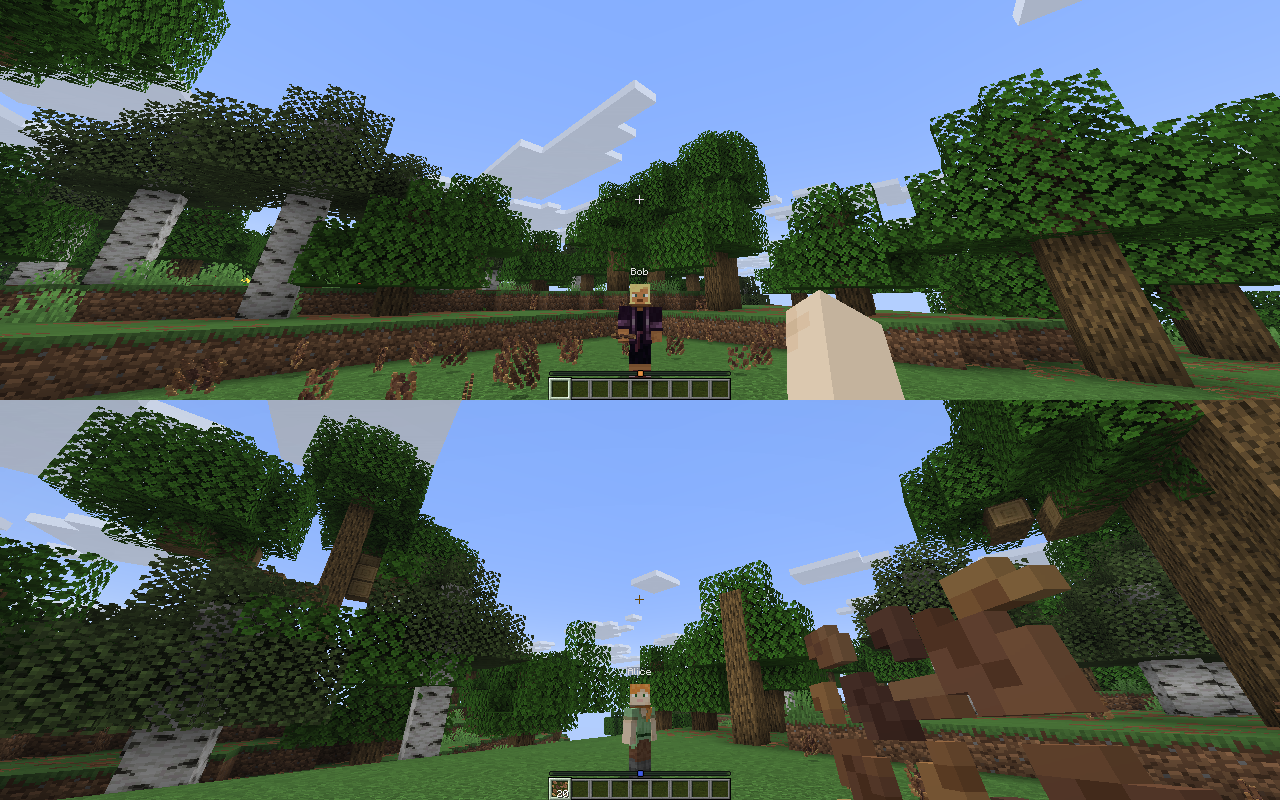
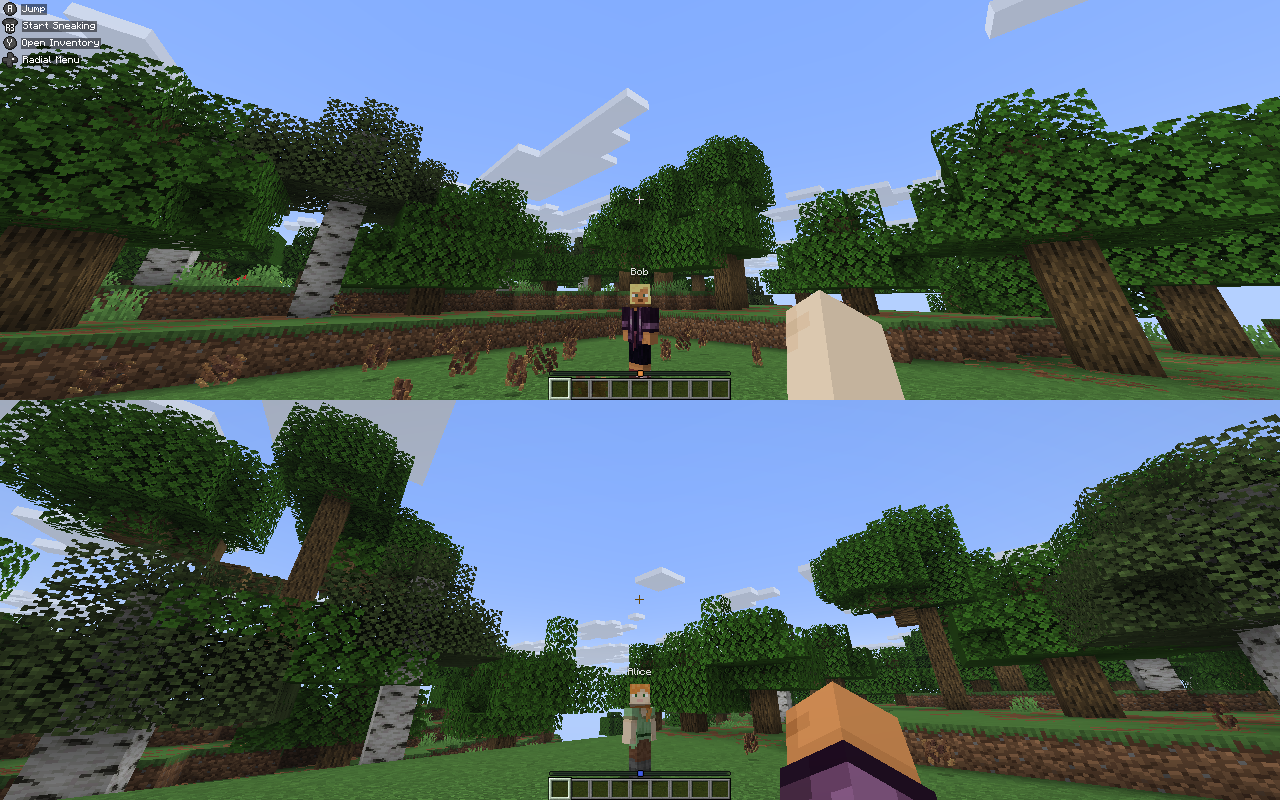
Split-screen layout pictures from a real Deck (2-4 players, both layouts)
scripts/deck-split.py runs the installed AppImage over SSH with DevSplit (dev only: players join without
controllers, each view captures itself at its real tile size) and composes the views in the tiler's layout. The
Deck's own profiles, layout setting and worlds are restored afterwards. README gets the full layout gallery.

diff --git a/scripts/deck-split.py b/scripts/deck-split.py
@@ -1,0 +1,111 @@
+#!/usr/bin/env python3
+"""README split-screen pictures from a real Steam Deck: runs the installed AppImage over SSH with the dev-only
+DevSplit flags (players join without controllers, each view saves its own picture at its real tile size), copies
+the views back and composes them in the tiler's layout into docs/screenshots/split-<layout>.png.
+Development only; the Deck's own profiles, settings and worlds are put back afterwards.
+
+    uv run --with pillow scripts/deck-split.py [layout ...]    layouts as in dev-split.py (default: all)
+    MCSS_DECK=deck@steamdeck.local  MCSS_DECK_APPIMAGE=~/Applications/MinecraftSplitscreen-x86_64.AppImage
+"""
+import json
+import os
+import subprocess
+import sys
+import tempfile
+import time
+from pathlib import Path
+
+from PIL import Image
+
+ROOT = Path(__file__).resolve().parent.parent
+DECK = os.environ.get("MCSS_DECK", "deck@steamdeck.local")
+APPIMAGE = os.environ.get("MCSS_DECK_APPIMAGE", "$HOME/Applications/MinecraftSplitscreen-x86_64.AppImage")
+PRISM = "$HOME/.var/app/org.prismlauncher.PrismLauncher/data/PrismLauncher"
+PROFILES = ROOT / "test" / "smoke" / "profiles"
+OUT = ROOT / "docs" / "screenshots"
+W, H = 1280, 800
+HW, HH = W // 2, H // 2
+QUAD = [(0, 0, HW, HH), (HW, 0, HW, HH), (0, HH, HW, HH), (HW, HH, HW, HH)]
+LAYOUTS = {  # the tiler's slots (appimage/kwin/mcss-tile) per layout
+    "2p-horizontal": [(0, 0, W, HH), (0, HH, W, HH)],
+    "2p-vertical": [(0, 0, HW, H), (HW, 0, HW, H)],
+    "3p-horizontal": [(0, 0, W, HH), QUAD[2], QUAD[3]],
+    "3p-vertical": [(0, 0, HW, H), QUAD[1], QUAD[3]],
+    "4p": QUAD,
+}
+
+
+def ssh(script, timeout=120):
+    r = subprocess.run(["ssh", "-o", "BatchMode=yes", DECK, "bash -s"], input=script, text=True, capture_output=True,
+                       timeout=timeout)
+    if r.returncode != 0:
+        raise RuntimeError(f"ssh failed ({r.returncode}): {r.stderr.strip()[-500:]}")
+    return r.stdout
+
+
+def setup():
+    """Adds the sample profiles the Deck doesn't have yet (never touches existing ones); returns the added names."""
+    writes = "\n".join(
+        f"""[ -e "$D/{p.stem}.json" ] || {{ cat > "$D/{p.stem}.json" <<'J'\n{p.read_text().strip()}\nJ\necho {p.stem}; }}"""
+        for p in sorted(PROFILES.glob("*.json")))
+    out = ssh(f"""set -e
+P="{PRISM}"; D="$P/mcss-profiles"; mkdir -p "$D" "$P/mcss-dev-split"
+{writes}
+c="$P/instances/P1/minecraft/config/splitscreen.properties"
+if [ -e "$c" ]; then cp "$c" "$c.mcss-dev-bak"; fi
+""")
+    return out.split()
+
+
+def teardown(added):
+    rm_profiles = " ".join(f'"$P/mcss-profiles/{n}.json"' for n in added)
+    ssh(f"""P="{PRISM}"
+{('rm -f ' + rm_profiles) if added else ':'}
+c="$P/instances/P1/minecraft/config/splitscreen.properties"
+if [ -e "$c.mcss-dev-bak" ]; then mv "$c.mcss-dev-bak" "$c"; else rm -f "$c"; fi
+find "$P/instances/P1/minecraft/saves" -maxdepth 1 -type d -name 'DevSplit-*' -exec rm -rf {{}} +
+rm -rf "$P/mcss-dev-split"
+""")
+
+
+def run(name, slots):
+    vertical = "vertical" in name
+    shots = f"{PRISM}/mcss-dev-split/{name}"
+    ssh(f"""set -e
+P="{PRISM}"; rm -rf "{shots}"; mkdir -p "{shots}" "$P/instances/P1/minecraft/config"
+printf 'layout={'vertical' if vertical else 'horizontal'}\\n' > "$P/instances/P1/minecraft/config/splitscreen.properties"
+systemctl --user reset-failed mcss-split 2>/dev/null || true
+systemd-run --user --unit=mcss-split --collect -p RuntimeMaxSec=600 --setenv=WAYLAND_DISPLAY=wayland-0 \\
+  --setenv=DISPLAY=:0 --setenv=MCSS_DEV_SPLIT="{shots}" --setenv=MCSS_DEV_PLAYERS={len(slots)} {APPIMAGE}
+""")
+    print(f"{name}: started on the Deck", flush=True)
+    deadline = time.time() + 660
+    while time.time() < deadline:
+        time.sleep(10)
+        if ssh("systemctl --user is-active -q mcss-split && echo running || echo done").strip() == "done":
+            break
+    with tempfile.TemporaryDirectory() as tmp:
+        subprocess.run(["scp", "-q", "-o", "BatchMode=yes", f"{DECK}:{shots.replace('$HOME', '~')}/*.png", tmp],
+                       timeout=120)
+        views = [Path(tmp) / f"P{k}.png" for k in range(1, len(slots) + 1)]
+        missing = [v.name for v in views if not v.exists()]
+        if missing:
+            print(f"{name}: missing {missing}; see the Deck's ~/.local/state/mc-splitscreen and instance logs", flush=True)
+            return False
+        canvas = Image.new("RGB", (W, H))
+        for view, (x, y, w, h) in zip(views, slots):
+            canvas.paste(Image.open(view).convert("RGB").resize((w, h)), (x, y))
+        OUT.mkdir(parents=True, exist_ok=True)
+        canvas.save(OUT / f"split-{name}.png", optimize=True)
+    print(f"{name}: wrote {OUT / f'split-{name}.png'}", flush=True)
+    return True
+
+
+if __name__ == "__main__":
+    wanted = sys.argv[1:] or list(LAYOUTS)
+    added = setup()
+    try:
+        ok = all([run(n, LAYOUTS[n]) for n in wanted])
+    finally:
+        teardown(added)
+    sys.exit(0 if ok else 1)

diff --git a/glue-mod/src/client/java/dev/mcss/glue/DevSplit.java b/glue-mod/src/client/java/dev/mcss/glue/DevSplit.java
@@ -21,7 +21,8 @@ import net.minecraft.world.level.levelgen.presets.WorldPresets;
  * README split-screen shots, for development only (scripts/dev-split.py): with MCSS_DEV_SPLIT=<folder> and
  * MCSS_DEV_PLAYERS=<n>, client P<k> plays as a fixed profile; Player 1 creates a world, waits for everyone, gathers
  * them on a small cleared patch facing each other at noon, and then every client saves its own view as P<k>.png and
- * quits. The script composes the views in the tiler's layout. Never active in normal play.
+ * quits. The script composes the views in the tiler's layout. On the Deck (the real AppImage) the host also lists
+ * the guests in "slots" so AppRun starts them, and Lobby/GuestPad stay out of it. Never active in normal play.
  */
 final class DevSplit {
 	static final String DIR = System.getenv("MCSS_DEV_SPLIT");
@@ -29,7 +30,7 @@ final class DevSplit {
 	private static final int PLAYERS = Integer.parseInt(System.getenv().getOrDefault("MCSS_DEV_PLAYERS", "2"));
 	private static final List<String> NAMES = List.of("Alice", "Bob", "Kai", "Zuri");
 
-	private static boolean worldAsked, gathered, shot;
+	private static boolean worldAsked, gathered, shot, slotsWritten;
 	private static int ticks, waitTicks;
 
 	private DevSplit() {}
@@ -69,6 +70,13 @@ final class DevSplit {
 	}
 
 	private static void host(Minecraft mc) {
+		// on the Deck, AppRun starts the guests listed in "slots" (normally added by START presses in Lobby)
+		if (!slotsWritten) {
+			slotsWritten = true;
+			StringBuilder slots = new StringBuilder();
+			for (int n = 1; n <= PLAYERS; n++) slots.append(n).append(' ').append(System.currentTimeMillis()).append('\n');
+			Splitscreen.write("slots", slots.toString());
+		}
 		if (!worldAsked && mc.gui.screen() instanceof TitleScreen title) {
 			worldAsked = true;
 			LevelSettings settings = new LevelSettings("Splitscreen", GameType.CREATIVE,

diff --git a/glue-mod/src/client/java/dev/mcss/glue/SplitscreenGlue.java b/glue-mod/src/client/java/dev/mcss/glue/SplitscreenGlue.java
@@ -127,7 +127,7 @@ public class SplitscreenGlue implements ClientModInitializer {
 	private void tick(Minecraft mc) {
 		DevShots.tick(mc);
 		DevSplit.tick(mc);
-		if (CONTROLIFY) {
+		if (CONTROLIFY && !DevSplit.ACTIVE) {
 			Profiles.tick();
 			try {
 				if (Splitscreen.HOST) Lobby.tick();

diff --git a/README.md b/README.md
@@ -66,14 +66,21 @@ P1 starts alone:
     immediately and is remembered.
   - **Players:** who is playing with which controller.
 
-![Two players, horizontal layout: Player 1 (Alice) on top sees Bob; Player 2 (Bob) below sees Alice](docs/screenshots/split-2p-horizontal.png)
+Every layout, captured on a Steam Deck (each view at its real size; the profiles are Alice, Bob, Kai and Zuri):
+
+| | Horizontal | Vertical |
+| --- | --- | --- |
+| **2 players** | ![2 players, stacked](docs/screenshots/split-2p-horizontal.png) | ![2 players, side by side](docs/screenshots/split-2p-vertical.png) |
+| **3 players** | ![3 players, Player 1 across the top](docs/screenshots/split-3p-horizontal.png) | ![3 players, Player 1 down the left](docs/screenshots/split-3p-vertical.png) |
+| **4 players** | ![4 players in quadrants](docs/screenshots/split-4p.png) | (always quadrants) |
 
 | A guest waiting for the world | Splitscreen settings | Player 1's pause menu |
 | --- | --- | --- |
 | ![Player 2 (profile Kai) waiting for Player 1's world, with Cancel](docs/screenshots/waiting.png) | ![Splitscreen settings: layout, players, profile](docs/screenshots/settings.png) | ![Pause menu with the Splitscreen button at the top left](docs/screenshots/pause-menu.png) |
 
-The screenshots come from one desktop window (`MCSS_DEV_SHOTS=<folder> ./gradlew runClient` in `glue-mod/`,
-see `DevShots.java`). On the Deck the same screens fill each player's part of the split screen.
+The menu screenshots come from one desktop window (`MCSS_DEV_SHOTS=<folder> ./gradlew runClient` in `glue-mod/`,
+see `DevShots.java`). On the Deck the same screens fill each player's part of the split screen. The layout
+pictures come from the real AppImage on a Deck (`scripts/deck-split.py`, see `DevSplit.java`).
 
 Under Steam the clients read the real controllers, not Steam Input's virtual pads. Steam's virtual pads all look
 the same to the game, so they can't be told apart.

diff --git a/MODLOG.md b/MODLOG.md
@@ -152,3 +152,15 @@
   go through scripts/capped.sh (a systemd user scope, MemoryMax=3G, swap off). The dev client and dev-split
   heaps are -Xmx1G and Gradle is -Xmx1536m. The full smoke test passes inside the 3 GB cap. 3-4 simultaneous
   clients don't fit locally; split-2p-horizontal.png is the only composite so far.
+- Split-screen layout pictures: scripts/deck-split.py runs the installed AppImage on the Deck over SSH with
+  MCSS_DEV_SPLIT/MCSS_DEV_PLAYERS (flatpak passes the env through to Java).
+  - DevSplit makes the host list the guests in "slots", so AppRun starts them without START presses; it pauses
+    Lobby/GuestPad.
+  - Every view saves P<k>.png at its real tile size, and the script composes them in the tiler's slots.
+  - It adds only the sample profiles the Deck lacks, backs up and restores the layout setting, deletes the
+    DevSplit-* worlds, and cleans up afterwards (verified).
+- Actions bumped to their Node 24 majors (checkout v7, setup-java v6, setup-python v7, upload-artifact v7,
+  setup-gradle v6, action-gh-release v3); the CI run has no annotations.
+- minecraft-watch run by hand against 26.4-snapshot-5 opened issue #1: Fabric API is ready; Controlify, YACL and
+  Sodium aren't yet; the glue doesn't compile because RenderPipelines and DynamicTexture moved and
+  Screen.extractRenderState changed signature.
